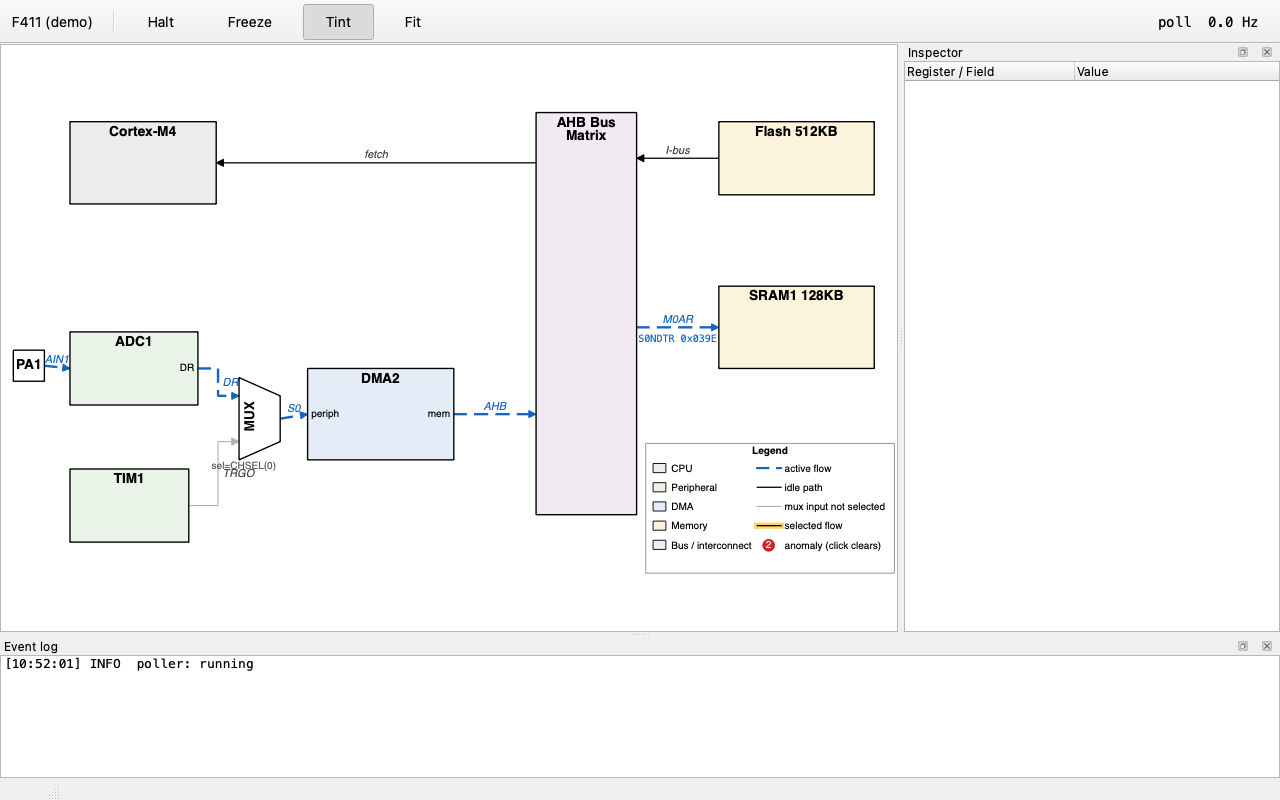
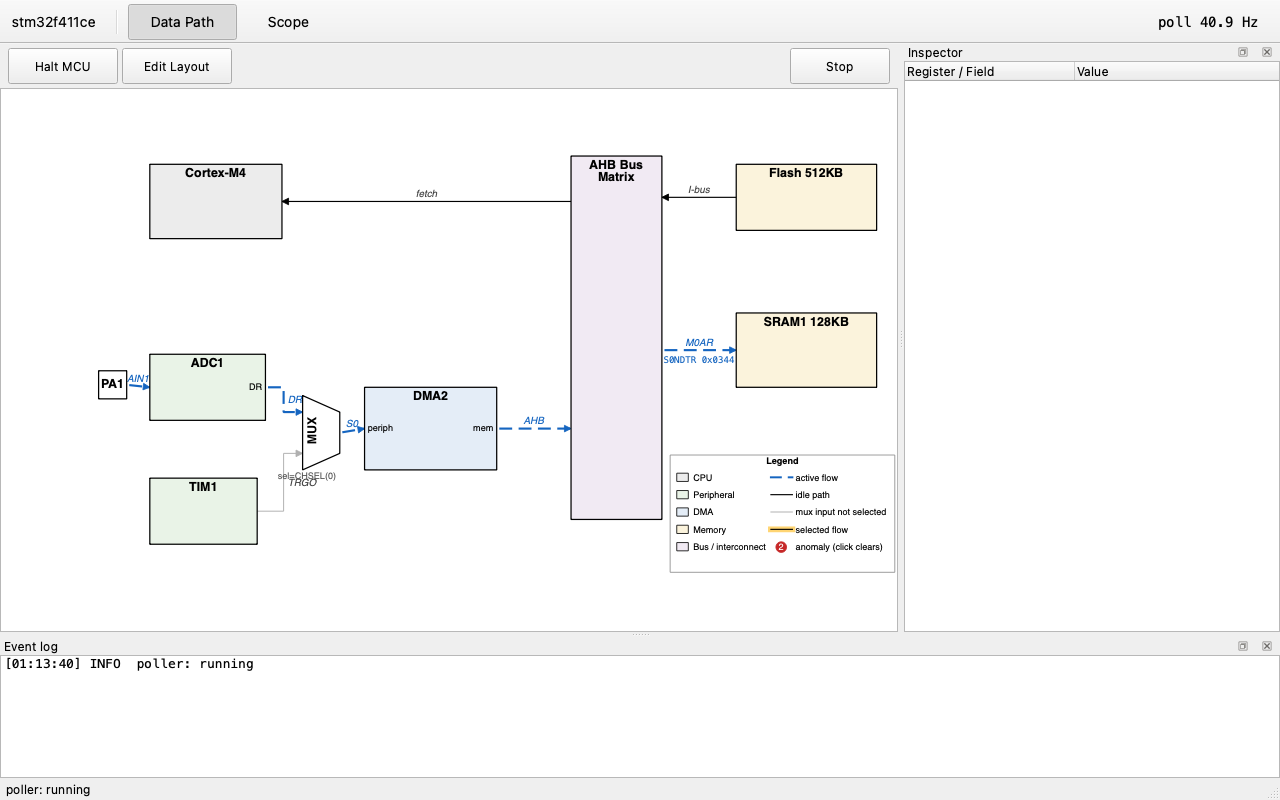
docs: refresh all screenshots from live hardware, add layout-editor shot
Screenshots retaken on a real stm32f411ce + ST-Link session (the old
set predated the M8 layout editor and the M7 scope table). New
pathscope-edit.png shows layout edit mode. ui/app.py's --shot mode
grows --shot-edit, --shot-elf (real trace channels instead of the
demo slot) and --shot-wait, and now flushes DeferredDelete events
before grabbing - processEvents() never delivers them without a real
exec() loop, so replaced table cell widgets lingered undeleted at
the viewport origin and painted over the scope table's first row in
every capture.

Claude-Session: https://claude.ai/code/session_018khXY5j7AuNfC7N3QRETWQ

diff --git a/ui/app.py b/ui/app.py
@@ -37,6 +37,20 @@ def _build_parser() -> argparse.ArgumentParser:
                    help="manual check only, requires --shot: switch to "
                         "the Scope tab, add the demo trace channel, and "
                         "let it ramp before saving the frame")
+    p.add_argument("--shot-elf", default=None, metavar="ELF",
+                   help="manual check only, requires --shot-scope: load "
+                        "this firmware ELF and add the real trace "
+                        "channels (adc_buf + DMA2.S0NDTR) instead of "
+                        "the demo address slot")
+    p.add_argument("--shot-edit", action="store_true",
+                   help="manual check only, requires --shot: enter "
+                        "layout edit mode (handles, edit strip) before "
+                        "saving the frame")
+    p.add_argument("--shot-wait", type=float, default=0.0, metavar="SEC",
+                   help="manual check only, requires --shot: keep "
+                        "pumping events this many extra seconds before "
+                        "the capture (lets the event log and progress "
+                        "values accumulate)")
     return p
 
 
@@ -84,24 +98,60 @@ def main(argv: Optional[List[str]] = None) -> int:
                 select_deadline = time.monotonic() + 1.0
                 while time.monotonic() < select_deadline:
                     app.processEvents()
+            if args.shot_wait > 0:
+                wait_deadline = time.monotonic() + args.shot_wait
+                while time.monotonic() < wait_deadline:
+                    app.processEvents()
+            if args.shot_edit:
+                win.edit_layout_btn.setChecked(True)
+                app.processEvents()
             if args.shot_scope:
                 # Switch to the Scope tab (lazily constructs the real
-                # ScopePage) and watch the demo trace target's own
-                # lively ADC-sample slot (ui/demo.py's ADC_SAMPLE,
-                # 0x20000000 - a u16-range sine the animate thread
-                # keeps moving) so the screenshot shows a real curve,
-                # not an empty plot. add_address_slot() is the
-                # primitive add_symbol_channel()/add_register_channel()
-                # both wrap - used directly here since the demo target
-                # has no register model to resolve a reg_key against.
+                # ScopePage). With --shot-elf, load the firmware ELF
+                # and add the real hardware channels (the same pair
+                # tests/hw/test_trace_hw.py streams); otherwise watch
+                # the demo trace target's own lively ADC-sample slot
+                # (ui/demo.py's ADC_SAMPLE, 0x20000000 - a u16-range
+                # sine the animate thread keeps moving) so the
+                # screenshot shows a real curve, not an empty plot.
+                # add_address_slot() is the primitive
+                # add_symbol_channel()/add_register_channel() both
+                # wrap - used directly for the demo target, which has
+                # no register model to resolve a reg_key against.
                 win.tabs.setCurrentIndex(1)
                 app.processEvents()
-                win.scope_page.add_address_slot(
-                    0x20000000, "adc_sample", type_name="u16.lo")
+                if args.shot_elf is not None:
+                    win.scope_page.load_elf(args.shot_elf)
+                    app.processEvents()
+                    slot = win.scope_page.add_symbol_channel("adc_buf")
+                    win.scope_page.add_register_channel("DMA2.S0NDTR")
+                    if slot is not None:
+                        # adc_buf is a u16 sample array; the size-based
+                        # default (u32) would fuse two samples per
+                        # point. Driving the combo (not _on_type_changed
+                        # directly) keeps the visible cell in sync.
+                        win.scope_page.channel_slots()[slot][
+                            "type_combo"].setCurrentText("u16.lo")
+                    # commit/close any cell editor the adds left open
+                    # so the Name column renders its text in the shot
+                    win.scope_page.channel_table.setCurrentItem(None)
+                    win.scope_page.channel_table.clearSelection()
+                    win.scope_page.channel_table.clearFocus()
+                else:
+                    win.scope_page.add_address_slot(
+                        0x20000000, "adc_sample", type_name="u16.lo")
                 ramp_deadline = time.monotonic() + 2.5
                 while time.monotonic() < ramp_deadline:
                     app.processEvents()
                 win.scope_page.refresh_plot()
+            app.processEvents()
+            # processEvents() never delivers DeferredDelete (only a
+            # real exec() loop does), so any cell widget replaced
+            # during setup - e.g. the scope table re-rendering a row -
+            # lingers undeleted at the viewport origin and paints over
+            # row 0 in the grab. Flush them explicitly.
+            from PySide6.QtCore import QCoreApplication, QEvent
+            QCoreApplication.sendPostedEvents(None, QEvent.DeferredDelete)
             app.processEvents()
             win.grab().save(args.shot)
             print("saved", args.shot)
